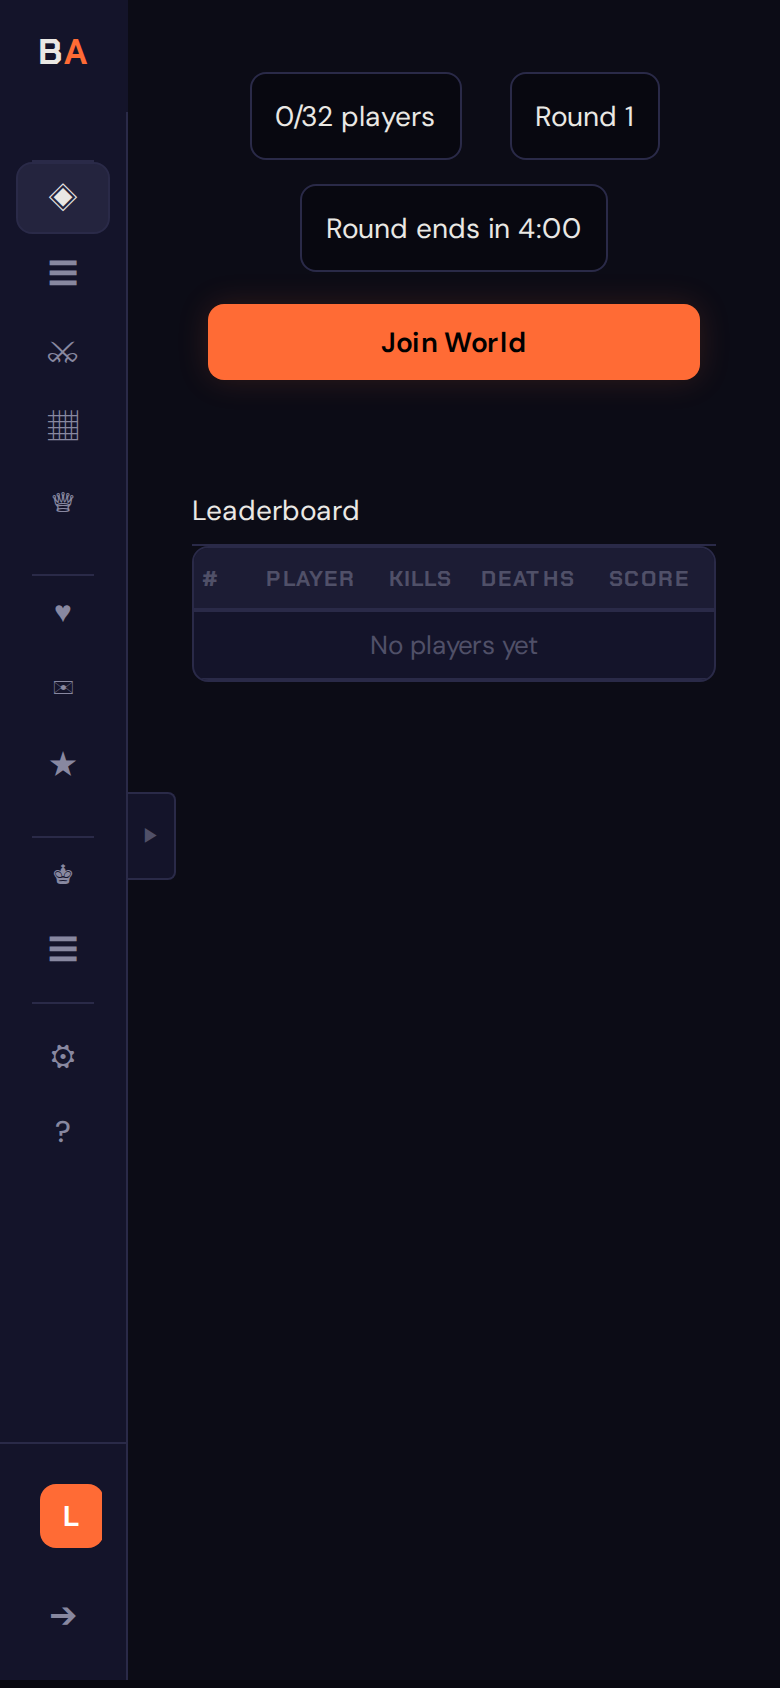
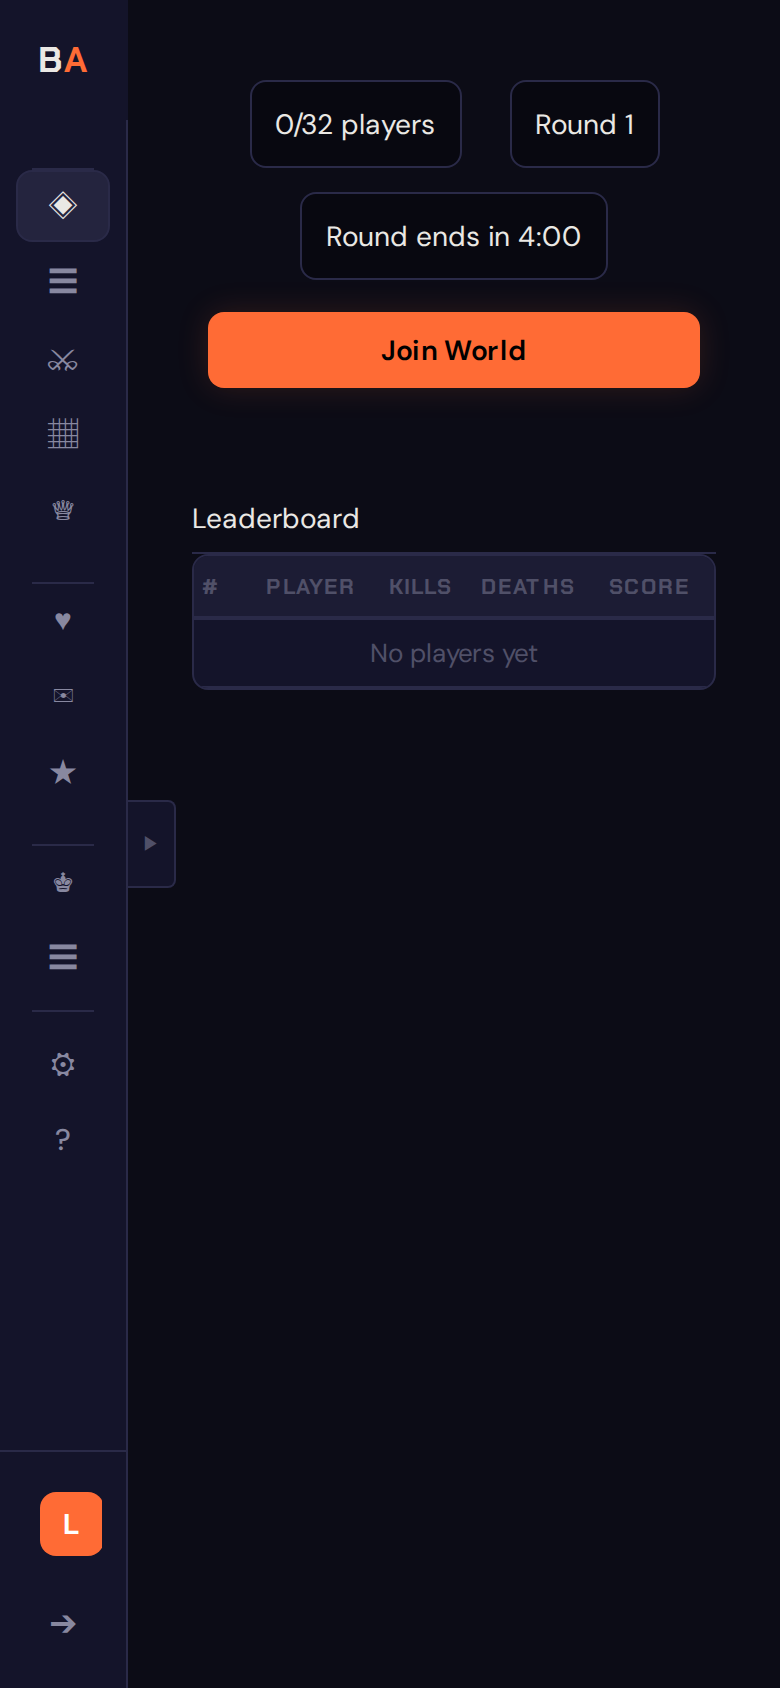
docs(screenshots): tour hides the chat dock before measuring and scrolls to top; four shots match the current UI

diff --git a/e2e/docs/tour.spec.ts b/e2e/docs/tour.spec.ts
@@ -55,6 +55,16 @@ async function shoot(
   await page.evaluate(() => document.fonts.ready);
   await expect(page.locator('#toast-container .toast')).toHaveCount(0, { timeout: 15_000 });
   await page.mouse.move(0, 0);
+  // A click scrolls its target into view; the document sometimes stayed a few px down after one.
+  await page.evaluate(() => window.scrollTo(0, 0));
+  // Before the tall measurement: the strip kept free for the dock is part of the scroll height.
+  const hideChat = opts.chat
+    ? null
+    : await page.addStyleTag({
+        // The dock and the strip the lobby keeps free for it.
+        content:
+          '.lobby-chat { display: none !important; } .has-lobby-chat .main-body { padding-bottom: 0 !important; }',
+      });
   const vp = page.viewportSize()!;
   if (opts.tall) {
     // The view scrolls in .main-body or in a panel inside it (settings, help, profile).
@@ -80,13 +90,6 @@ async function shoot(
       el.removeAttribute('id');
     });
   }
-  const hideChat = opts.chat
-    ? null
-    : await page.addStyleTag({
-        // The dock and the strip the lobby keeps free for it.
-        content:
-          '.lobby-chat { display: none !important; } .has-lobby-chat .main-body { padding-bottom: 0 !important; }',
-      });
   // A beat for layout and the canvas to settle.
   await page.waitForTimeout(500);
   await page.screenshot({
